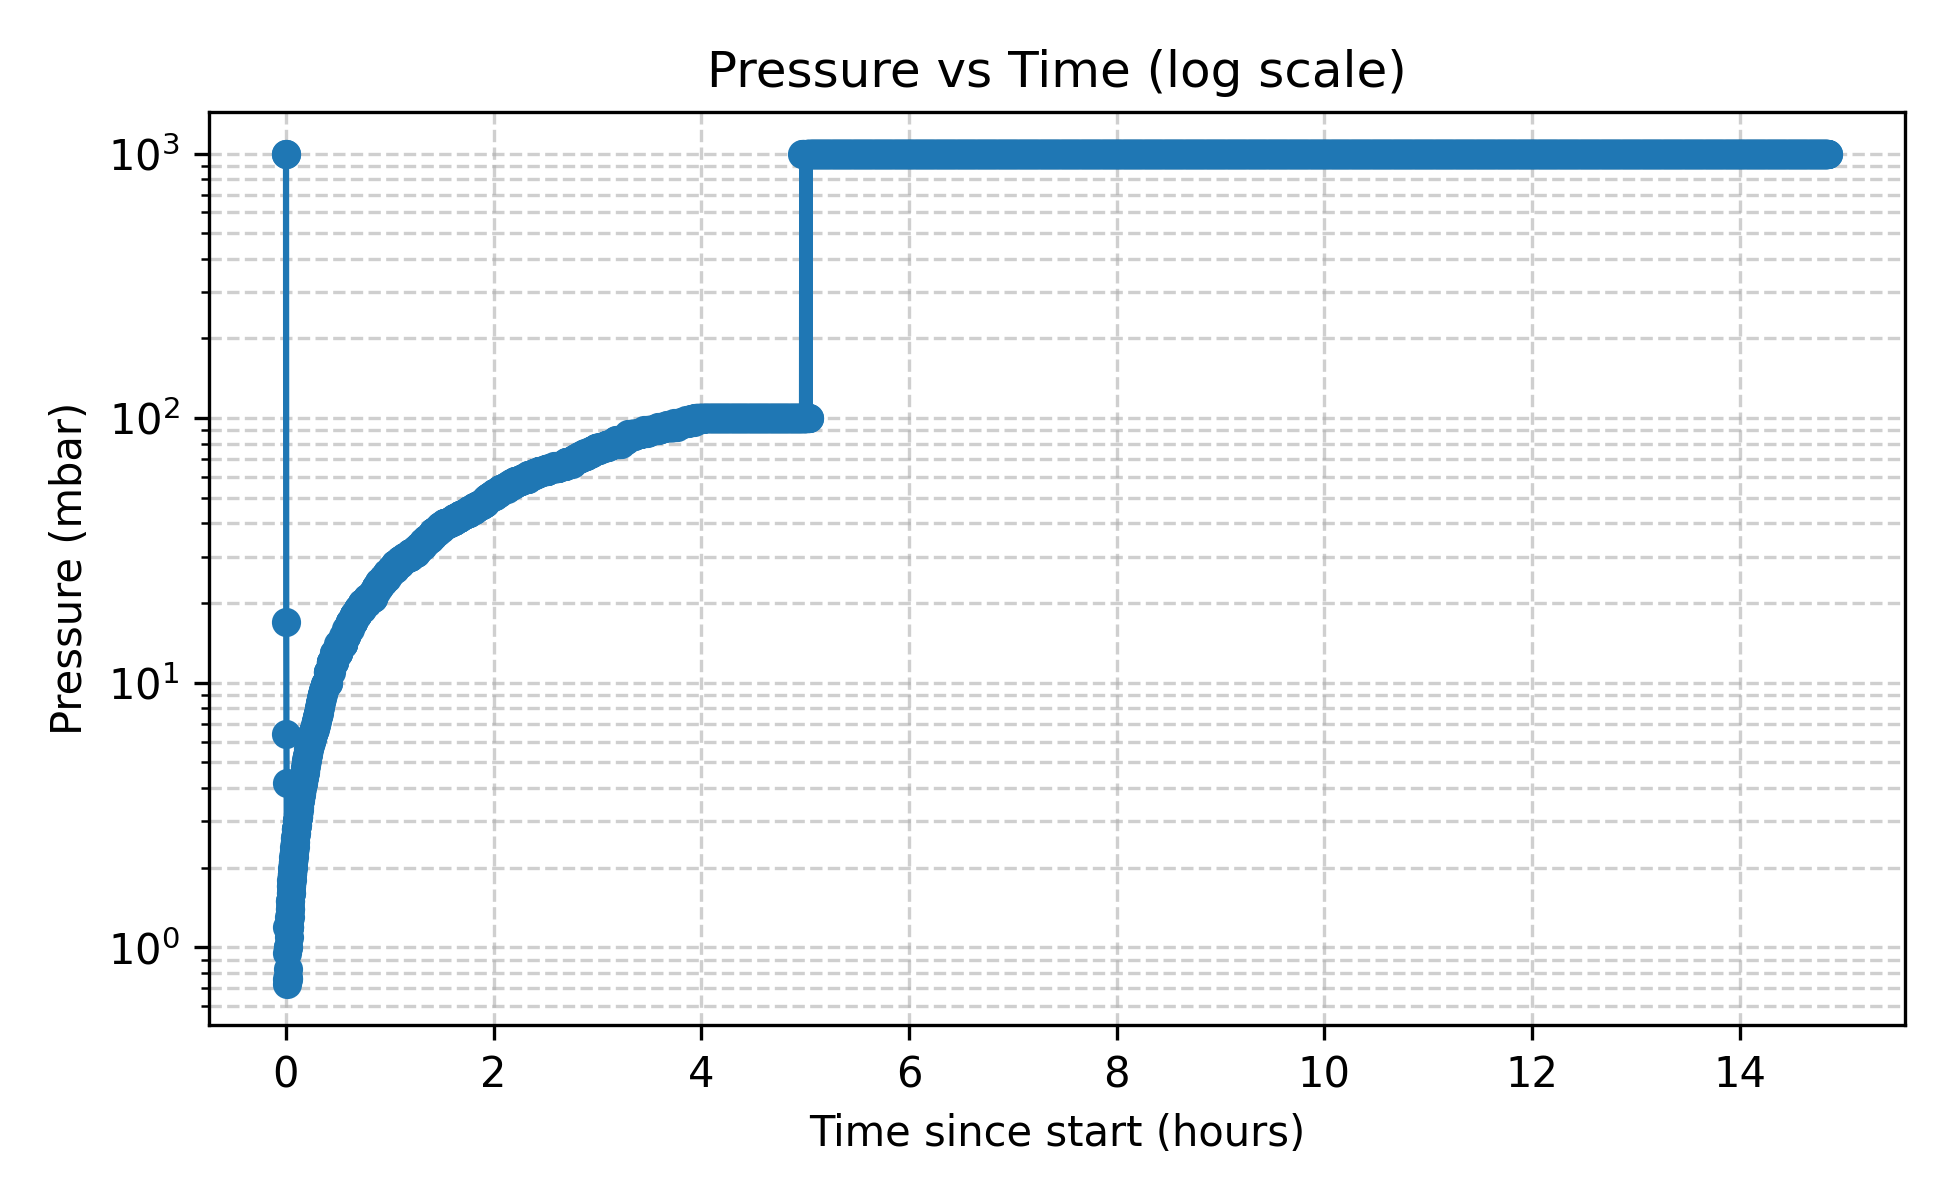
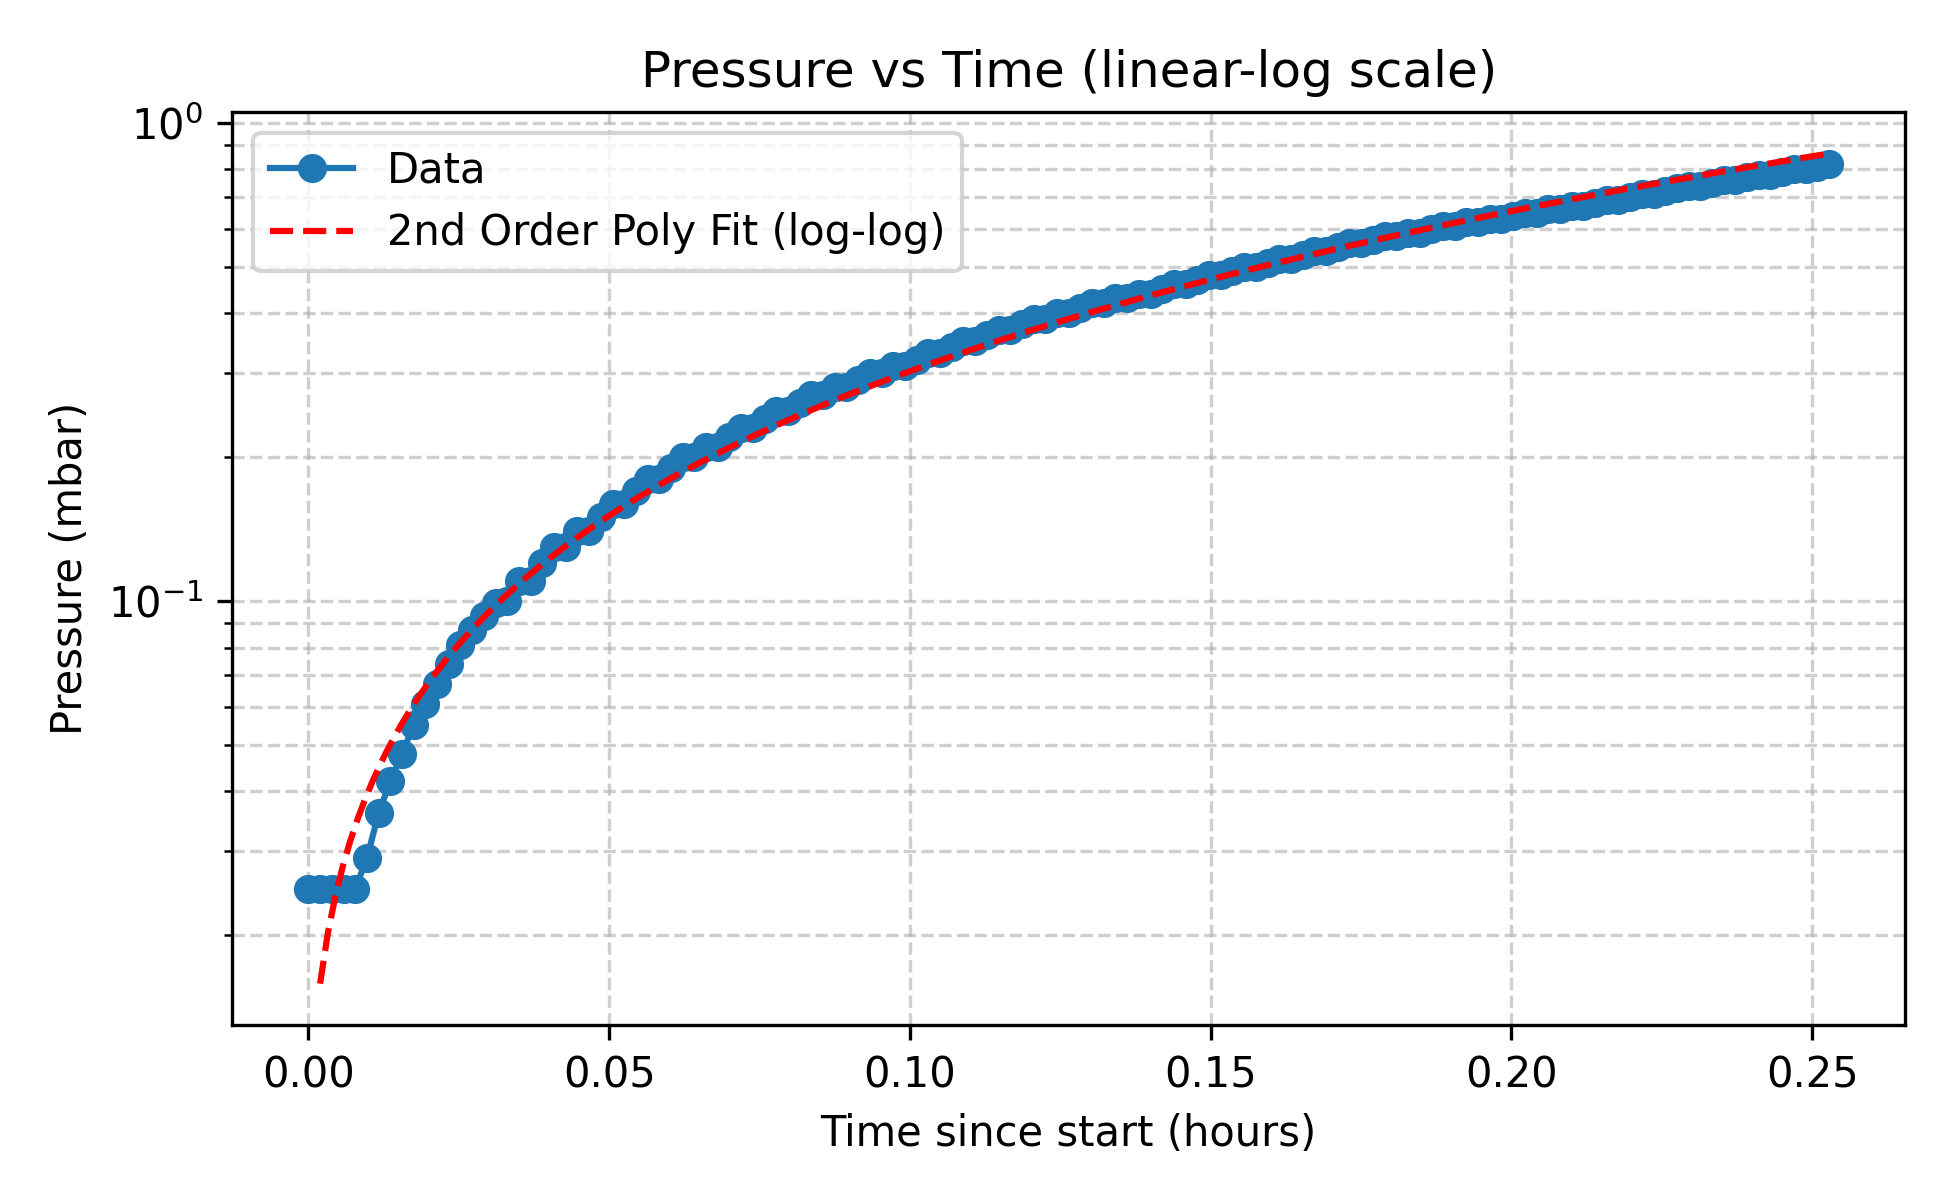
new data

diff --git a/plot.py b/plot.py
@@ -2,34 +2,138 @@
 from pathlib import Path
 import pandas as pd
 import matplotlib.pyplot as plt
+import numpy as np
 
-csv_path = Path("vacuum_log.csv")
-out_path = Path("pressure_vs_time.png")
+def process_dataframe(csv_path):
+    """Reads a CSV file, processes timestamps, and cleans data."""
+    df = pd.read_csv(csv_path)
+    # If there's a timestamp column, convert and compute hours since start
+    if "timestamp" in df.columns:
+        df["timestamp"] = pd.to_datetime(df["timestamp"])
+        start = df["timestamp"].iloc[0]
+        df["hours"] = (df["timestamp"] - start).dt.total_seconds() / 3600.0
+    else:
+        # otherwise use row index as time
+        df["hours"] = range(len(df))
 
-df = pd.read_csv(csv_path)
+    # Ensure numeric pressure column
+    df["pressure"] = pd.to_numeric(df["pressure"], errors="coerce")
+    df = df.dropna(subset=["pressure", "hours"]).reset_index(drop=True)
+    return df
 
-# If there's a timestamp column, convert and compute hours since start
-if "timestamp" in df.columns:
-    df["timestamp"] = pd.to_datetime(df["timestamp"])
-    start = df["timestamp"].iloc[0]
-    df["hours"] = (df["timestamp"] - start).dt.total_seconds() / 3600.0
-else:
-    # otherwise use row index as time
-    df["hours"] = range(len(df))
+def calculate_fit(df):
+    """Calculates a 2nd order polynomial fit in log-log space and its derivative."""
+    # Prepare data for polynomial fit, excluding non-positive values for log.
+    fit_df = df[df["hours"] > 0].copy()
 
-# Ensure numeric pressure column
-df["pressure"] = pd.to_numeric(df["pressure"], errors="coerce")
-df = df.dropna(subset=["pressure", "hours"]).reset_index(drop=True)
+    if len(fit_df) > 1:
+        # Perform 2nd-order polynomial fit on log-transformed data
+        log_x = np.log(fit_df["hours"])
+        log_y = np.log(fit_df["pressure"])
+        fit_coeffs = np.polyfit(log_x, log_y, 2)
+        fit_poly = np.poly1d(fit_coeffs)
+        fit_poly_deriv = fit_poly.deriv()
 
+        # Generate points for the fit line
+        x_fit = np.linspace(fit_df["hours"].min(), fit_df["hours"].max(), 200)
+        log_x_fit = np.log(x_fit)
+        log_y_fit = fit_poly(log_x_fit)
+        y_fit = np.exp(log_y_fit)
+
+        # Calculate the derivative of the fit function y = exp(P(log(x)))
+        # dy/dx = y * P'(log(x)) * (1/x)
+        y_deriv = y_fit * fit_poly_deriv(log_x_fit) / x_fit
+        
+        return x_fit, y_fit, y_deriv
+    return None, None, None
+
+# --- Main Script ---
+
+# Define input files and output path
+csv_paths = [Path("Recomp_NEW.csv"), Path("IsoRecomp_NEW.csv")] # Example file names
+out_path = Path("pressure_vs_time_comparison.png")
+deriv_out_path = Path("pressure_derivative_vs_time.png")
+
+# Prepare plot
 plt.figure(figsize=(6.5, 4))
-plt.plot(df["hours"], df["pressure"], marker="o", linestyle="-")
-plt.yscale("log")
-plt.xlabel("Time since start (hours)")
-plt.ylabel(f"Pressure ({df['unit'].iloc[0] if 'unit' in df.columns else 'units'})")
-plt.title("Pressure vs Time (log scale)")
-plt.grid(True, which="both", ls="--", alpha=0.6)
-plt.tight_layout()
-out_path.parent.mkdir(parents=True, exist_ok=True)
-plt.savefig(out_path, dpi=300)
-# plt.show()  # uncomment to display interactively
-plt.close()
+colors = ['C0', 'C1']
+line_styles = ['-', '--']
+
+# Process and plot each file
+all_dfs = []
+fit_results = []
+for i, csv_path in enumerate(csv_paths):
+    if not csv_path.exists():
+        print(f"Warning: File not found at {csv_path}. Skipping.")
+        continue
+
+    df = process_dataframe(csv_path)
+    all_dfs.append(df)
+
+    # Plot data
+    plt.plot(df["hours"], df["pressure"], marker="o", linestyle=line_styles[i], color=colors[i], label=f"Data: {csv_path.stem}")
+
+    # Calculate and plot best fit line
+    x_fit, y_fit, y_deriv = calculate_fit(df)
+    fit_results.append({'x': x_fit, 'y_deriv': y_deriv, 'path': csv_path})
+    if x_fit is not None:
+        plt.plot(x_fit, y_fit, color=colors[i], linestyle=':', label=f"Fit: {csv_path.stem}")
+
+# Configure and save the first plot
+if not all_dfs:
+    print("No data to plot. Exiting.")
+    plt.close()
+else:
+    # Determine units for y-axis label from the first available dataframe
+    first_df = all_dfs[0]
+    unit_str = first_df['unit'].iloc[0] if 'unit' in first_df.columns and not first_df.empty else 'units'
+
+    plt.legend()
+    plt.xscale("linear")
+    plt.yscale("log")
+    plt.xlabel("Time since start (hours)")
+    plt.ylabel(f"Pressure ({unit_str})")
+    plt.title("Pressure vs Time Comparison (linear-log scale)")
+    plt.grid(True, which="both", ls="--", alpha=0.6)
+    plt.tight_layout()
+    out_path.parent.mkdir(parents=True, exist_ok=True)
+    plt.savefig(out_path, dpi=300)
+    print(f"Plot saved to {out_path}")
+    plt.close()
+
+    # --- Create and save the derivative plot ---
+    plt.figure(figsize=(6.5, 4))
+    has_deriv_data = False
+    STEADY_STATE_POINTS = 20 # Number of final points to average for steady state
+
+    for i, result in enumerate(fit_results):
+        if result['x'] is not None and result['y_deriv'] is not None:
+            plt.plot(result['x'], result['y_deriv'], color=colors[i], linestyle=':', label=f"Fit Derivative: {result['path'].stem}")
+            has_deriv_data = True
+
+            # Calculate and plot steady state of the derivative
+            num_points = len(result['y_deriv'])
+            if num_points > 0:
+                # Use last points for the mean, or all points if there are fewer than STEADY_STATE_POINTS
+                points_to_avg = min(num_points, STEADY_STATE_POINTS)
+                steady_state_value = np.mean(result['y_deriv'][-points_to_avg:])
+                
+                # Plot horizontal line for steady state
+                plt.axhline(y=steady_state_value, color=colors[i], linestyle='--', 
+                            label=f"Steady State: {result['path'].stem} ({steady_state_value:.2e})")
+
+
+    if has_deriv_data:
+        plt.legend()
+        plt.xlabel("Time since start (hours)")
+        plt.ylabel(f"Derivative of Pressure Fit (d/dt) [{unit_str}/hour]")
+        plt.title("Derivative of Pressure Fit vs. Time")
+        plt.grid(True, which="both", ls="--", alpha=0.6)
+        plt.tight_layout()
+        plt.savefig(deriv_out_path, dpi=300)
+        print(f"Derivative plot saved to {deriv_out_path}")
+    else:
+        print("No derivative data to plot.")
+    
+    # plt.show() # uncomment to display interactively
+    plt.close()
